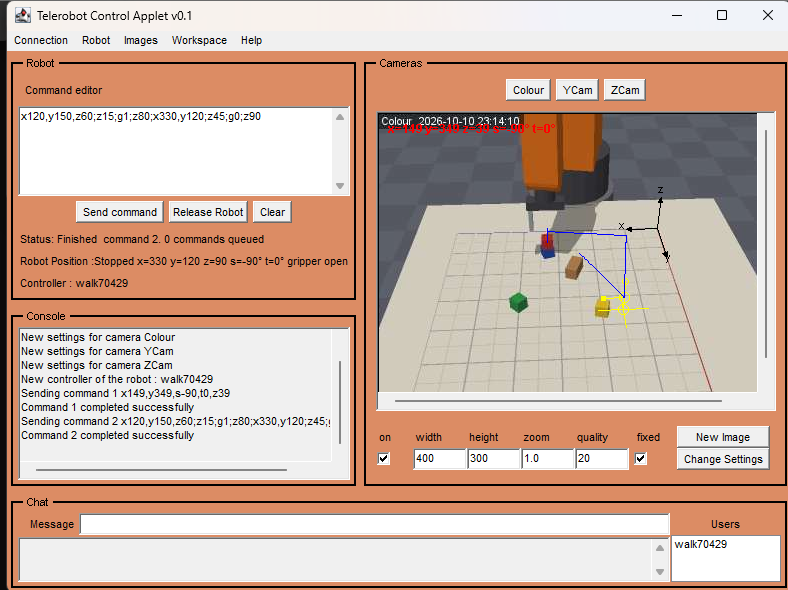
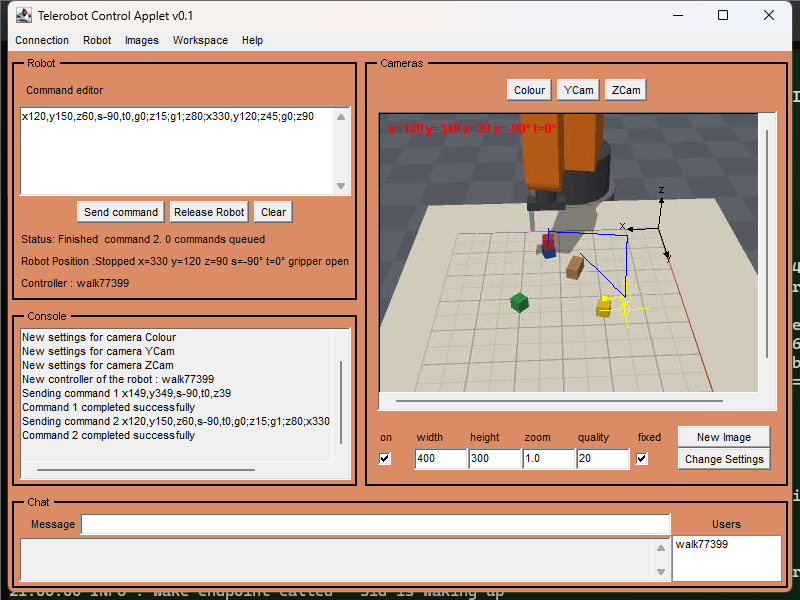
Make the pick-and-place example robust; move the camera caption
The example script assumed the arm was untilted with its gripper open.
After a "Comand from cursor" move (tilted, gripper closed) it silently
failed to grip. Its first waypoint now sets spin and tilt and opens the
gripper, and the stacking test starts from that awkward pose.

The rendered caption moves to the bottom of the image, since the applet
draws the cursor coordinates at the top. README describes the overlays.

diff --git a/web/help.html b/web/help.html
@@ -13,7 +13,10 @@ each waypoint sets one or more axes separated by <code>,</code>:</p>
 <tr><td><code>r</code></td><td>before an axis: relative to the current position, e.g. <code>rz-20</code></td></tr>
 </table>
 <p>Example: pick up the red block and stack it on the blue one:</p>
-<pre>x120,y150,z60;z15;g1;z80;x330,y120;z45;g0;z90</pre>
+<pre>x120,y150,z60,s-90,t0,g0;z15;g1;z80;x330,y120;z45;g0;z90</pre>
+<p>The first waypoint opens the gripper, which must be open to grip. The
+gripper only grips with the tilt within &plusmn;20&deg;. Blocks stay where they are
+left until the lab is restarted.</p>
 <p>The camera images carry their calibration, so the 3D stick cursor drawn over
 them can be dragged to choose a position: drag the top marker to change height,
 the bottom marker or the plumb line to move across the table, and the needles to

diff --git a/src/test/java/au/edu/uwa/mech/sim/WorldTest.java b/src/test/java/au/edu/uwa/mech/sim/WorldTest.java
@@ -22,8 +22,10 @@ public class WorldTest
     VirtualRobotServer robot = new VirtualRobotServer(w);
     VirtualRobotServer.SPEED_MM_PER_S = 5000;   // keep the test quick
     VirtualRobotServer.GRIPPER_SECONDS = 0.05;
+    // start where a cursor move left the arm, tilted and with the gripper closed
+    robot.execute("gbh move x186,y313,s-19,t-24,z387,gclosed");
     // the help page's example: red block onto the blue one
-    String reply = robot.execute("gbh move x120,y150,z60;z15;g1;z80;x330,y120;z45;g0;z90");
+    String reply = robot.execute("gbh move x120,y150,z60,s-90,t0,g0;z15;g1;z80;x330,y120;z45;g0;z90");
     assertEquals("1 0 \"Move completed\"", reply);
     Block red = find(w, "red"), blue = find(w, "blue");
     assertEquals(330, red.getX(), 1e-6);

diff --git a/src/test/java/au/edu/uwa/mech/it/AppletWalkthrough.java b/src/test/java/au/edu/uwa/mech/it/AppletWalkthrough.java
@@ -57,7 +57,7 @@ public class AppletWalkthrough
     String user = args.length > 1 ? args[1] : "team";
     String pin = args.length > 2 ? args[2] : "1234";
     String nick = args.length > 3 ? args[3] : "walk" + (System.currentTimeMillis() / 1000 % 100000);
-    String script = args.length > 4 ? args[4] : "x120,y150,z60;z15;g1;z80;x330,y120;z45;g0;z90";
+    String script = args.length > 4 ? args[4] : "x120,y150,z60,s-90,t0,g0;z15;g1;z80;x330,y120;z45;g0;z90";
     params.put("MOMURL", "moms://localhost:4444/");
     params.put("LogURL", "http://localhost:18080/log");
     params.put("fontsize", "11");

diff --git a/src/main/java/au/edu/uwa/mech/sim/Renderer.java b/src/main/java/au/edu/uwa/mech/sim/Renderer.java
@@ -203,9 +203,10 @@ public class Renderer
         + (caption == null ? "" : "  " + caption);
     int tw = g.getFontMetrics().stringWidth(text);
     g.setColor(new Color(0, 0, 0, 140));
-    g.fillRect(0, 0, tw + 8, 16);
+    int h = img.getHeight();   // bottom-left: the applet draws its own text at the top
+    g.fillRect(0, h - 16, tw + 8, 16);
     g.setColor(Color.white);
-    g.drawString(text, 4, 12);
+    g.drawString(text, 4, h - 4);
     g.dispose();
   }
 

diff --git a/README.md b/README.md
@@ -32,14 +32,22 @@ The control applet opens in its own window:
    drag the yellow 3D cursor over a camera image and choose
    **Robot ▸ Comand from cursor**.
 
+The camera images are augmented with overlays drawn from each camera's
+calibration: the yellow stick cursor, the blue path of commanded moves, the x/y/z axes,
+the cursor's coordinates in red, and shared workspace points. The **Images**
+menu turns them on and off, and **Workspace** has measuring tools.
+
 Commands are path scripts: waypoints separated by `;`, each setting axes
 `x y z` (mm), `s` (spin), `t` (tilt) and `g0`/`g1` (open/close the gripper).
 [web/help.html](web/help.html) has the details. To stack the red block on the
 blue one:
 
 ```
-x120,y150,z60;z15;g1;z80;x330,y120;z45;g0;z90
+x120,y150,z60,s-90,t0,g0;z15;g1;z80;x330,y120;z45;g0;z90
 ```
+
+The first waypoint sets spin and tilt and opens the gripper, because a closed
+gripper can't grip and the gripper only grips with the tilt within ±20°. Blocks stay where they are left until the stack is restarted.
 
 Logs go to `run/`. User accounts are in [config/users.ini](config/users.ini).
 The `team` account (PIN `1234`) can take control from guests; change the PINs
